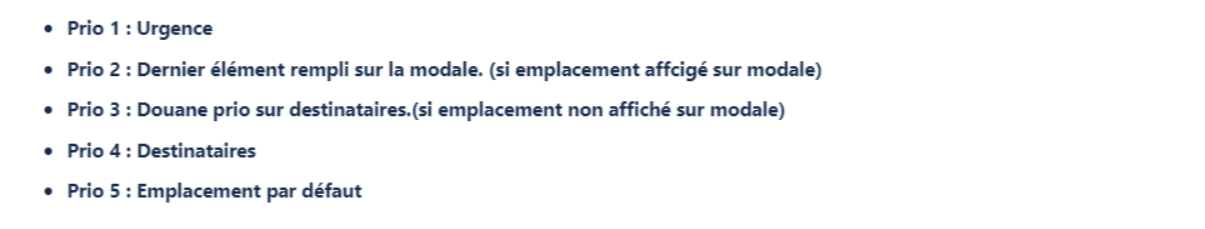
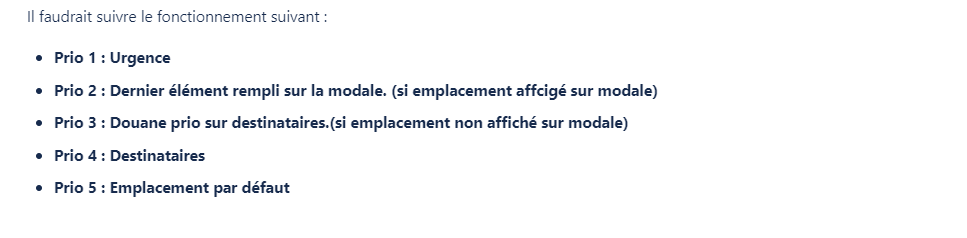
GITBOOK-512: No subject

diff --git a/services-externes/stagenow.md b/services-externes/stagenow.md
@@ -12,7 +12,7 @@ StageNow est une application disponible sur les terminaux mobiles représentée 
 
 * Vous allez devoir scanner un QR code que vous pouvez trouver sur la page de connexion de l'application Follow GT Web en survolant le logo du code-barres avec votre curseur.
 
-<figure><img src="../.gitbook/assets/image (1) (1).png" alt="" width="375"><figcaption></figcaption></figure>
+<figure><img src="../.gitbook/assets/image (1) (1) (1).png" alt="" width="375"><figcaption></figcaption></figure>
 
 * Quand StageNow a reconnu un QR code contenant des instructions qui le concernent, l'écran passe à :
 

diff --git a/trace/parametrages/arrivages-ul.md b/trace/parametrages/arrivages-ul.md
@@ -16,7 +16,7 @@ Cette section sert à paramétrer les comportements lors de la création d'un ar
 
 Voici l'ordre de priorité des différents emplacements par défaut:
 
-<figure><img src="../../.gitbook/assets/image (1).png" alt=""><figcaption></figcaption></figure>
+<figure><img src="../../.gitbook/assets/image (1) (1).png" alt=""><figcaption></figcaption></figure>
 
 ## Etiquettes
 

diff --git a/general/recapitulatif-des-grandes-fonctionnalites-par-brique.md b/general/recapitulatif-des-grandes-fonctionnalites-par-brique.md
@@ -1,6 +1,6 @@
 # Récapitulatif des grandes fonctionnalités par brique
 
-<figure><img src="../.gitbook/assets/Capture d’écran 2023-08-24 152447.png" alt=""><figcaption></figcaption></figure>
+<figure><img src="../.gitbook/assets/image.png" alt=""><figcaption></figcaption></figure>
 
 ## **Trace**
 
